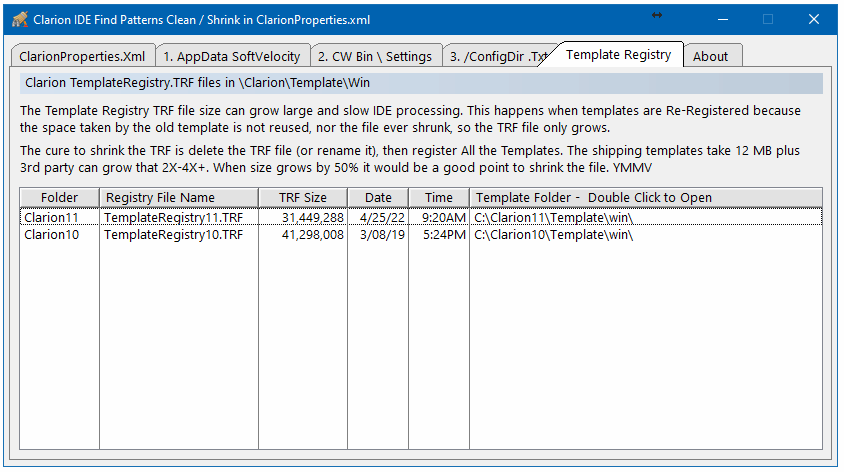
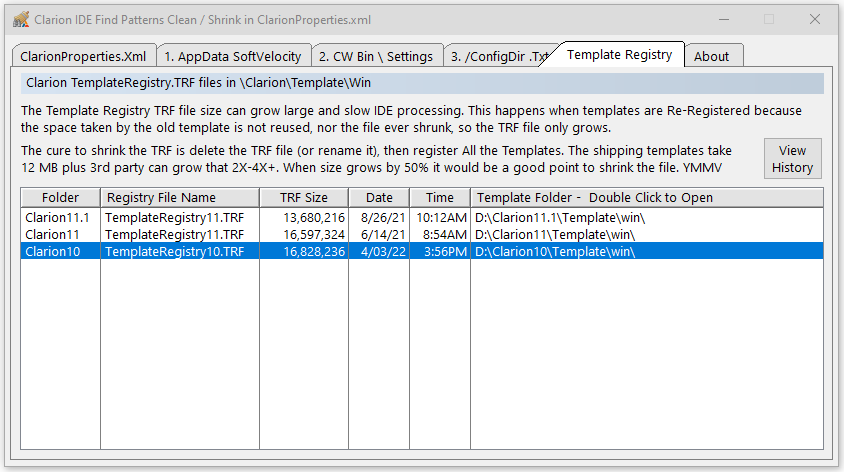
History of TRF size saved to CSV
The TRF File Size history is written to TRF_History_Log.CSV

Changed region(s): [[0.0, 0.0, 1.0, 1.0]]

diff --git a/README.md b/README.md
@@ -60,10 +60,16 @@ Because your 3rd party template size is unknown to me you will have to note the 
 I have a Windows Task Scheduler run this FindCleanIDE every month so I can reduce the size of the Find history.
  This new feature reminds you to check if your TRF file has grown large.
 
+New 5/13/22 now writes a history of TRF file sizes to file TRF_History_Log.CSV
+ and a new button "View History" was added.
+ This CSV file can be opened in Excel and sorted or filtered.
+ You can add your own notes and other columns if you wish.
+ This history helps you have an idea of how big the file has been and track growth.
+
 ![tab TRF](images/tabTemplateRegistry.png)
 
 In the above example after deleting the Clarion 10 TRF file and registering all the templates (except WB)
- the  41 MB TRF shrunk to 29 MB which is an 11 MB 27% reduction. 
+ the  41 MB TRF shrunk to 29 MB which is an 11 MB 27% reduction.
 
 ## Big Bang Class for StringTheory
 
